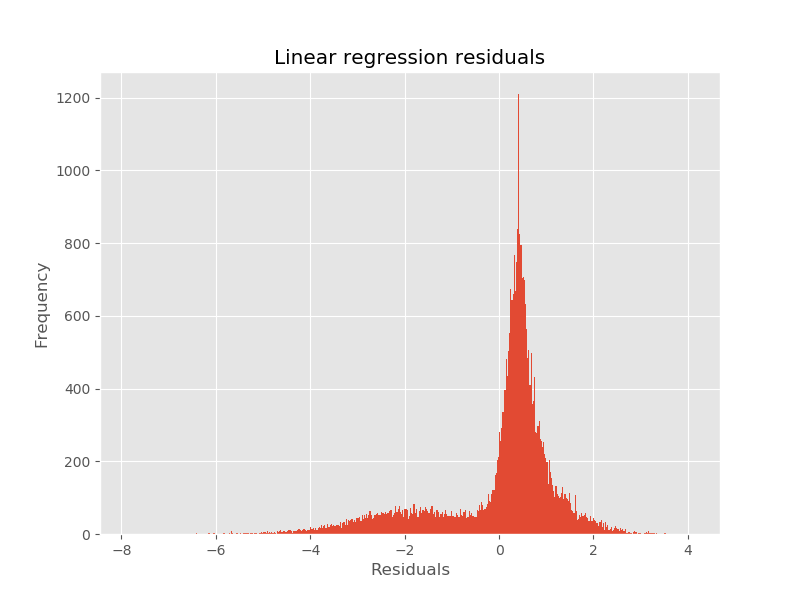
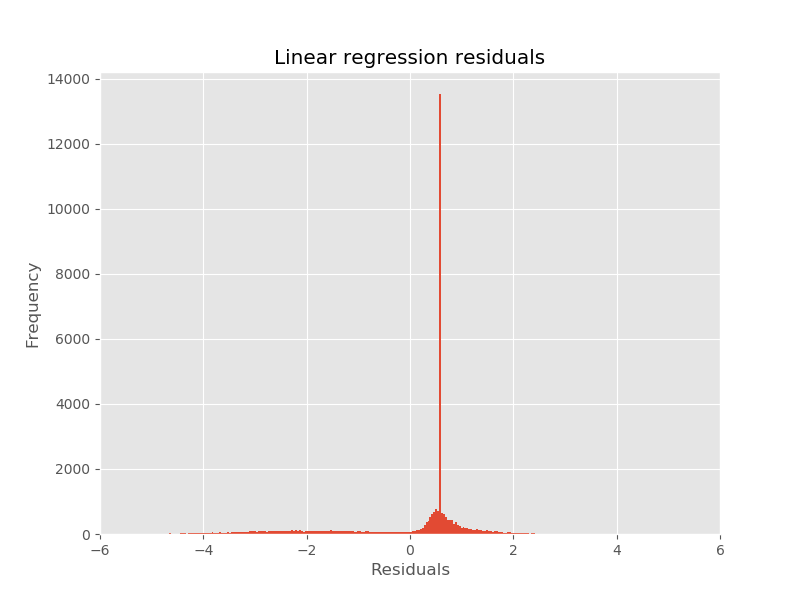
Update questions 4-6 with corrected promoter start data

diff --git a/day5-lunch/log_regress.py b/day5-lunch/log_regress.py
@@ -54,8 +54,11 @@ print(results.summary())
 new_y = results.fittedvalues
 r = new_y - Y
 
+# For the purpose of aesthetic, the xlim is set slightly smaller than this histogram's default range
+# This cuts out one small group of residuals in the -8s or so. All the other residuals lie around 0
 fig, ax = plt.subplots(figsize=(8, 6))
-ax.hist(r, bins=500)
+ax.hist(r, bins=300)
+ax.set_xlim(-6,6)
 ax.set_ylabel("Frequency")
 ax.set_xlabel("Residuals")
 ax.set_title("Linear regression residuals")

diff --git a/day5-lunch/linear_regress.py b/day5-lunch/linear_regress.py
@@ -54,8 +54,8 @@ r = new_y - Y
 # For the purpose of aesthetic, the xlim is set smaller than this histogram's default range
 # This cuts out one small group of residuals in the -6000s or so. All the other residuals lie around 0
 fig, ax = plt.subplots(figsize=(8, 6))
-ax.hist(r, bins=1000)
-ax.set_xlim(-500,500)
+ax.hist(r, bins=3000)
+ax.set_xlim(-200,200)
 ax.set_ylabel("Frequency")
 ax.set_xlabel("Residuals")
 ax.set_title("Multiple linear regression residuals")
